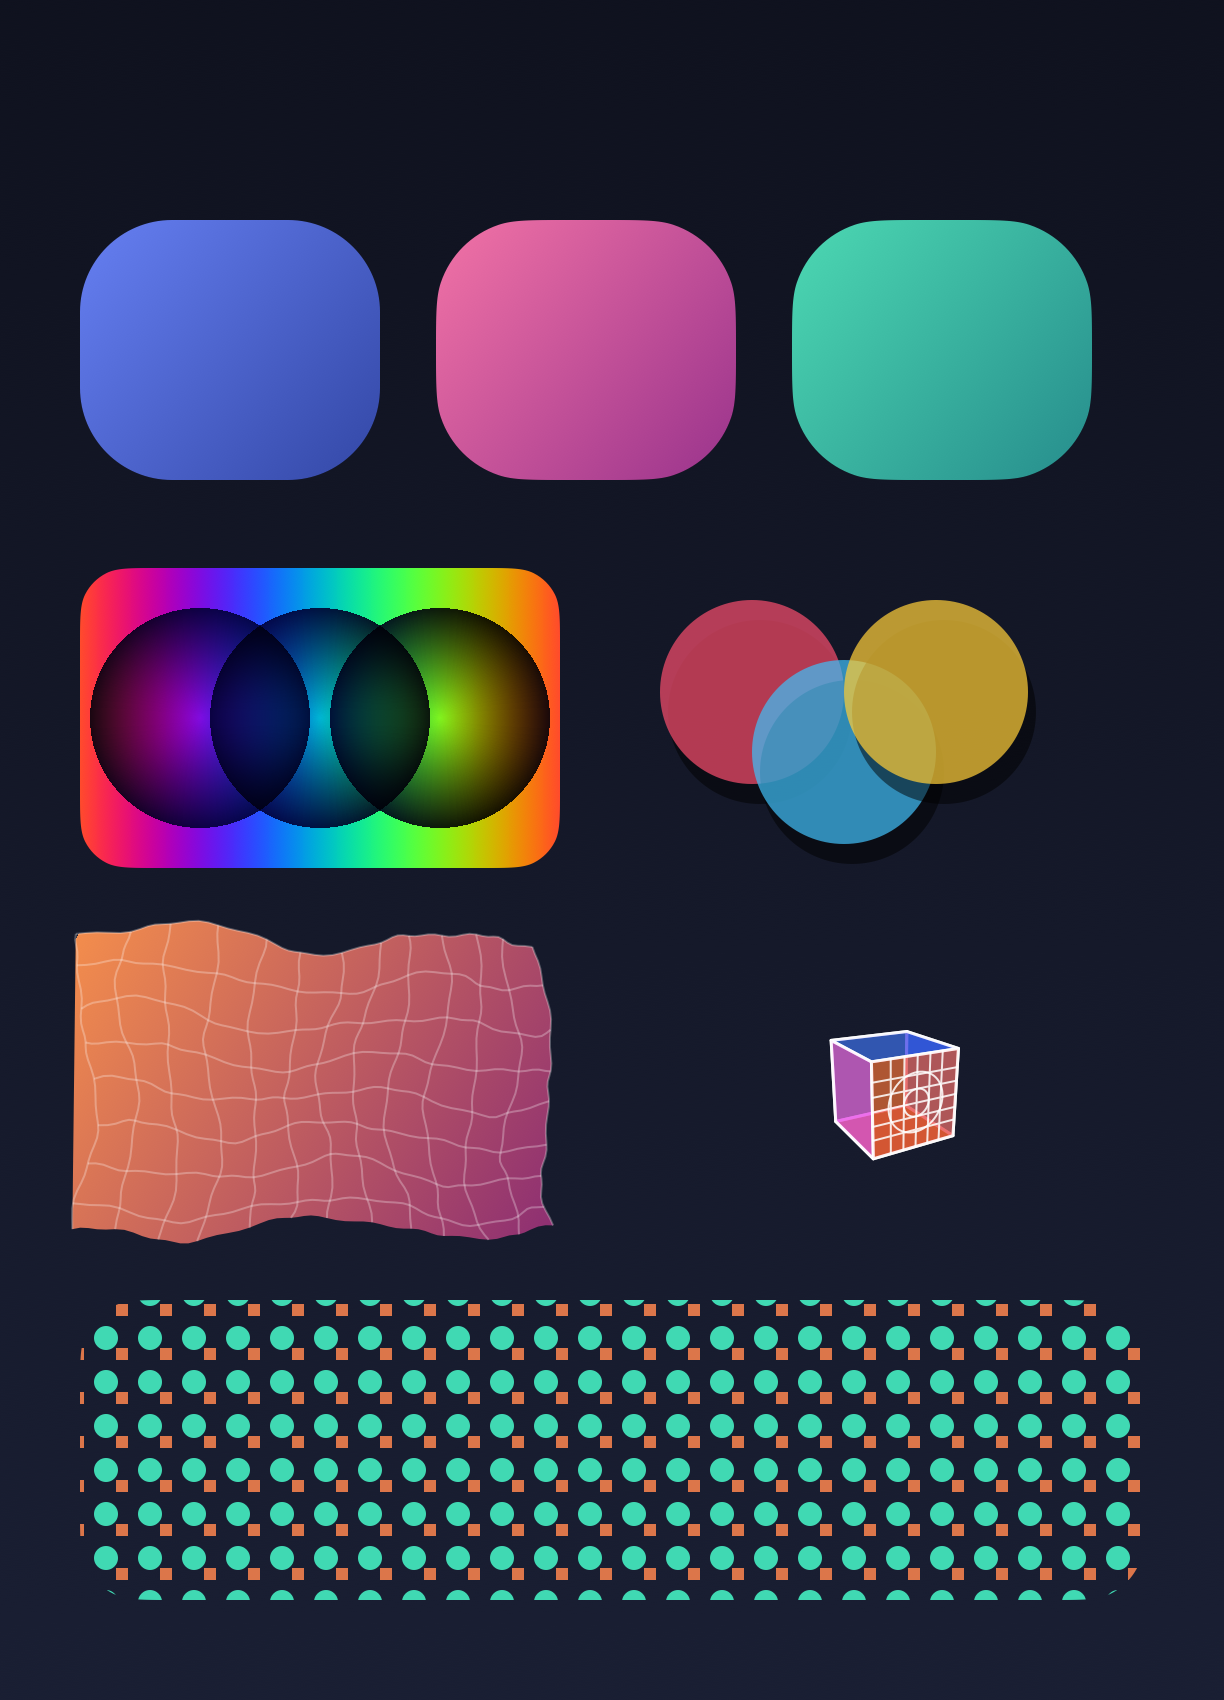
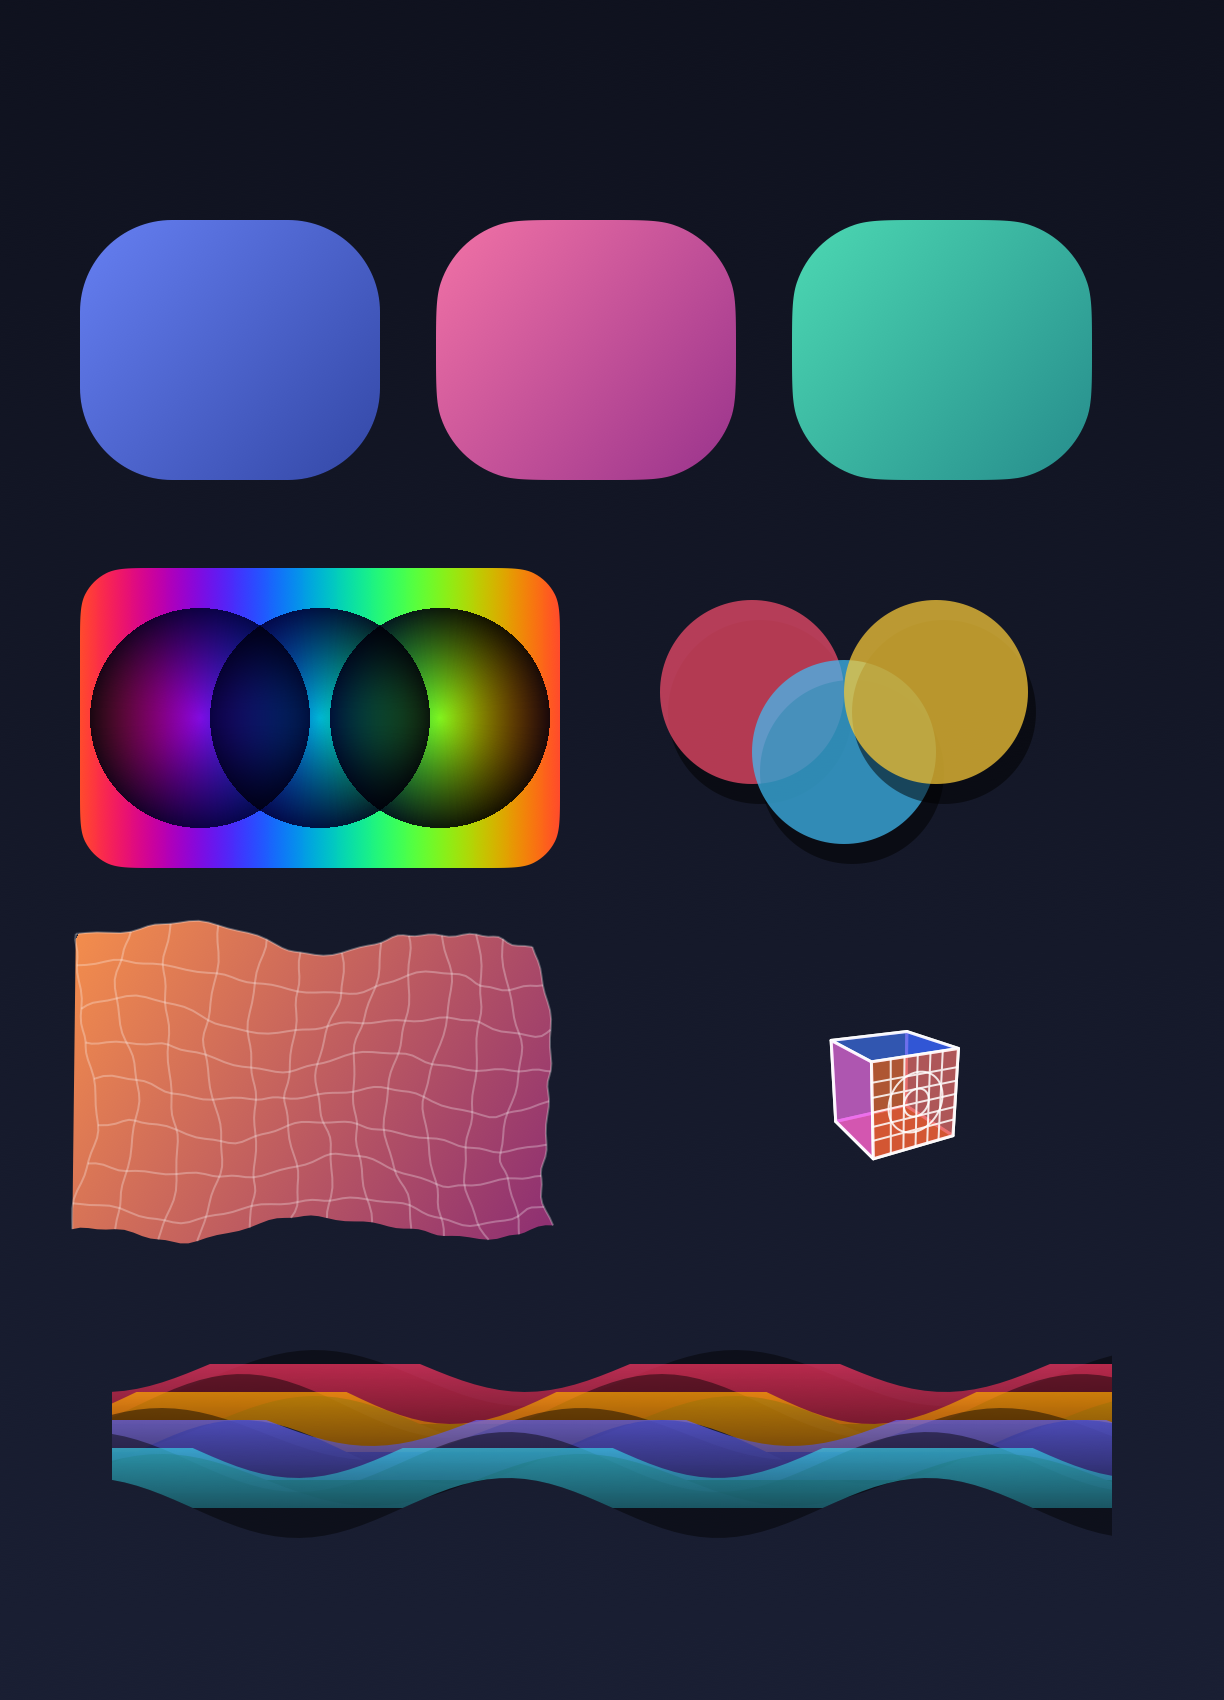
docs: replace pattern strip with an Apple-color scarf in the showcase
The tiling pattern panel is swapped for a flowing scarf: four
overlapping wavy bands in Apple system colors (pink, orange, indigo,
teal), each with a gradient sheen, translucency so the overlaps blend,
and a soft drop shadow. Smaller and softer than the pattern strip it
replaces.

Changed region(s): [[0.0621, 0.7482, 0.9314, 0.9353]]

diff --git a/Tests/RenderersTests/ShowcaseGenerationTests.swift b/Tests/RenderersTests/ShowcaseGenerationTests.swift
@@ -32,7 +32,7 @@ struct ShowcaseGenerationTests {
         drawShadowTransparency(&ctx, font: font, originY: 270)
         drawCrumple(&ctx, font: font, originY: 452)
         drawPerspective(&ctx, font: font, originY: 452)
-        drawPatternStrip(&ctx, font: font, originY: 636)
+        drawScarf(&ctx, font: font, originY: 648)
         drawFooter(&ctx, font: font, width: width, height: height)
 
         let data = try PDFRenderer(width: width, height: height).render(ctx)
@@ -288,26 +288,55 @@ struct ShowcaseGenerationTests {
         }
     }
 
-    /// A tiling pattern fill inside a continuous-corner panel.
-    private func drawPatternStrip(_ ctx: inout GraphicsContext, font: Font?, originY: Double) {
-        label(&ctx, font: font, "PATTERNS  (tiled cell fills)", x: 40, y: originY)
-        let pattern = Pattern(bounds: Rect(x: 0, y: 0, width: 22, height: 22), isColored: true)
-        pattern.context.setFillColor(Color(red: 0.25, green: 0.85, blue: 0.7))
-        pattern.context.addEllipse(in: Rect(x: 3, y: 3, width: 12, height: 12))
-        pattern.context.fillPath()
-        pattern.context.setFillColor(Color(red: 0.95, green: 0.5, blue: 0.3, alpha: 0.9))
-        pattern.context.addRect(Rect(x: 14, y: 14, width: 6, height: 6))
-        pattern.context.fillPath()
+    /// A flowing scarf: overlapping wavy translucent bands in Apple system
+    /// colors, each with a gradient sheen and a soft drop shadow, so the
+    /// overlaps blend like draped fabric.
+    private func drawScarf(_ ctx: inout GraphicsContext, font: Font?, originY: Double) {
+        label(&ctx, font: font, "SCARF  (curves + transparency + shadows)", x: 40, y: originY)
+        let left = 56.0
+        let right = 556.0
+        let bandHeight = 30.0
+        // Apple system colors.
+        let bands: [(y: Double, amp: Double, phase: Double, color: Color)] = [
+            (originY + 34, 14, 0.0, Color(red: 1.00, green: 0.18, blue: 0.33)), // systemPink
+            (originY + 48, 16, 1.1, Color(red: 1.00, green: 0.58, blue: 0.00)), // systemOrange
+            (originY + 62, 13, 2.3, Color(red: 0.35, green: 0.34, blue: 0.84)), // systemIndigo
+            (originY + 76, 15, 3.4, Color(red: 0.19, green: 0.69, blue: 0.78)), // systemTeal
+        ]
+        let freq = 2.0 * .pi / 210.0
+        for band in bands {
+            func wave(_ x: Double, _ offset: Double) -> Double {
+                band.y + offset + band.amp * sin(freq * x + band.phase)
+            }
+            var path = Path()
+            let steps = 80
+            path.move(to: Point(x: left, y: wave(left, 0)))
+            for i in 1 ... steps {
+                let x = left + (right - left) * Double(i) / Double(steps)
+                path.addLine(to: Point(x: x, y: wave(x, 0)))
+            }
+            for i in stride(from: steps, through: 0, by: -1) {
+                let x = left + (right - left) * Double(i) / Double(steps)
+                path.addLine(to: Point(x: x, y: wave(x, bandHeight)))
+            }
+            path.closeSubpath()
 
-        let panel = Rect(x: 40, y: originY + 14, width: 532, height: 150)
-        ctx.saveGState()
-        ctx.setShadow(offset: Point(x: 0, y: 8), blur: 14, color: Color(red: 0, green: 0, blue: 0, alpha: 0.5))
-        var clip = Path()
-        clip.addAppleRoundedRect(in: panel, cornerRadius: 30)
-        ctx.setFillPattern(pattern)
-        ctx.addPath(clip)
-        ctx.fillPath()
-        ctx.restoreGState()
+            // Soft drop shadow, then a translucent gradient-sheened fill.
+            ctx.saveGState()
+            ctx.setShadow(offset: Point(x: 0, y: 7), blur: 12, color: Color(red: 0, green: 0, blue: 0, alpha: 0.45))
+            ctx.addPath(path)
+            ctx.clip()
+            let sheen = Gradient(stops: [
+                GradientStop(color: shade(band.color, 1.15, alpha: 0.78), location: 0),
+                GradientStop(color: shade(band.color, 0.65, alpha: 0.78), location: 1),
+            ])
+            ctx.drawLinearGradient(sheen, start: Point(x: left, y: band.y), end: Point(x: left, y: band.y + bandHeight))
+            ctx.restoreGState()
+        }
+    }
+
+    private func shade(_ c: Color, _ k: Double, alpha: Double) -> Color {
+        Color(red: min(1, c.red * k), green: min(1, c.green * k), blue: min(1, c.blue * k), alpha: alpha)
     }
 
     private func drawFooter(_ ctx: inout GraphicsContext, font: Font?, width _: Double, height: Double) {

diff --git a/README.md b/README.md
@@ -21,7 +21,7 @@ It provides a "Virtual PostScript Machine" API compatible with CoreGraphics (Qua
 
 ## Preview
 
-A capability showcase rendered entirely by PureDraw to a vector PDF: circular, continuous, and pixel-exact Apple corners; linear, radial, and function-sampled gradients; multiply blending in transparency layers; translucent drop shadows; the non-linear crumple deformer; a depth-sorted, per-face-lit 3D cube; tiling patterns; and embedded selectable text.
+A capability showcase rendered entirely by PureDraw to a vector PDF: circular, continuous, and pixel-exact Apple corners; linear, radial, and function-sampled gradients; multiply blending; translucent drop shadows; the non-linear crumple deformer; a translucent, depth-sorted 3D cube with a projective grid texture; and a flowing scarf of overlapping wavy bands in Apple system colors.
 
 ![PureDraw capability showcase](puredraw_showcase_preview.png)
 